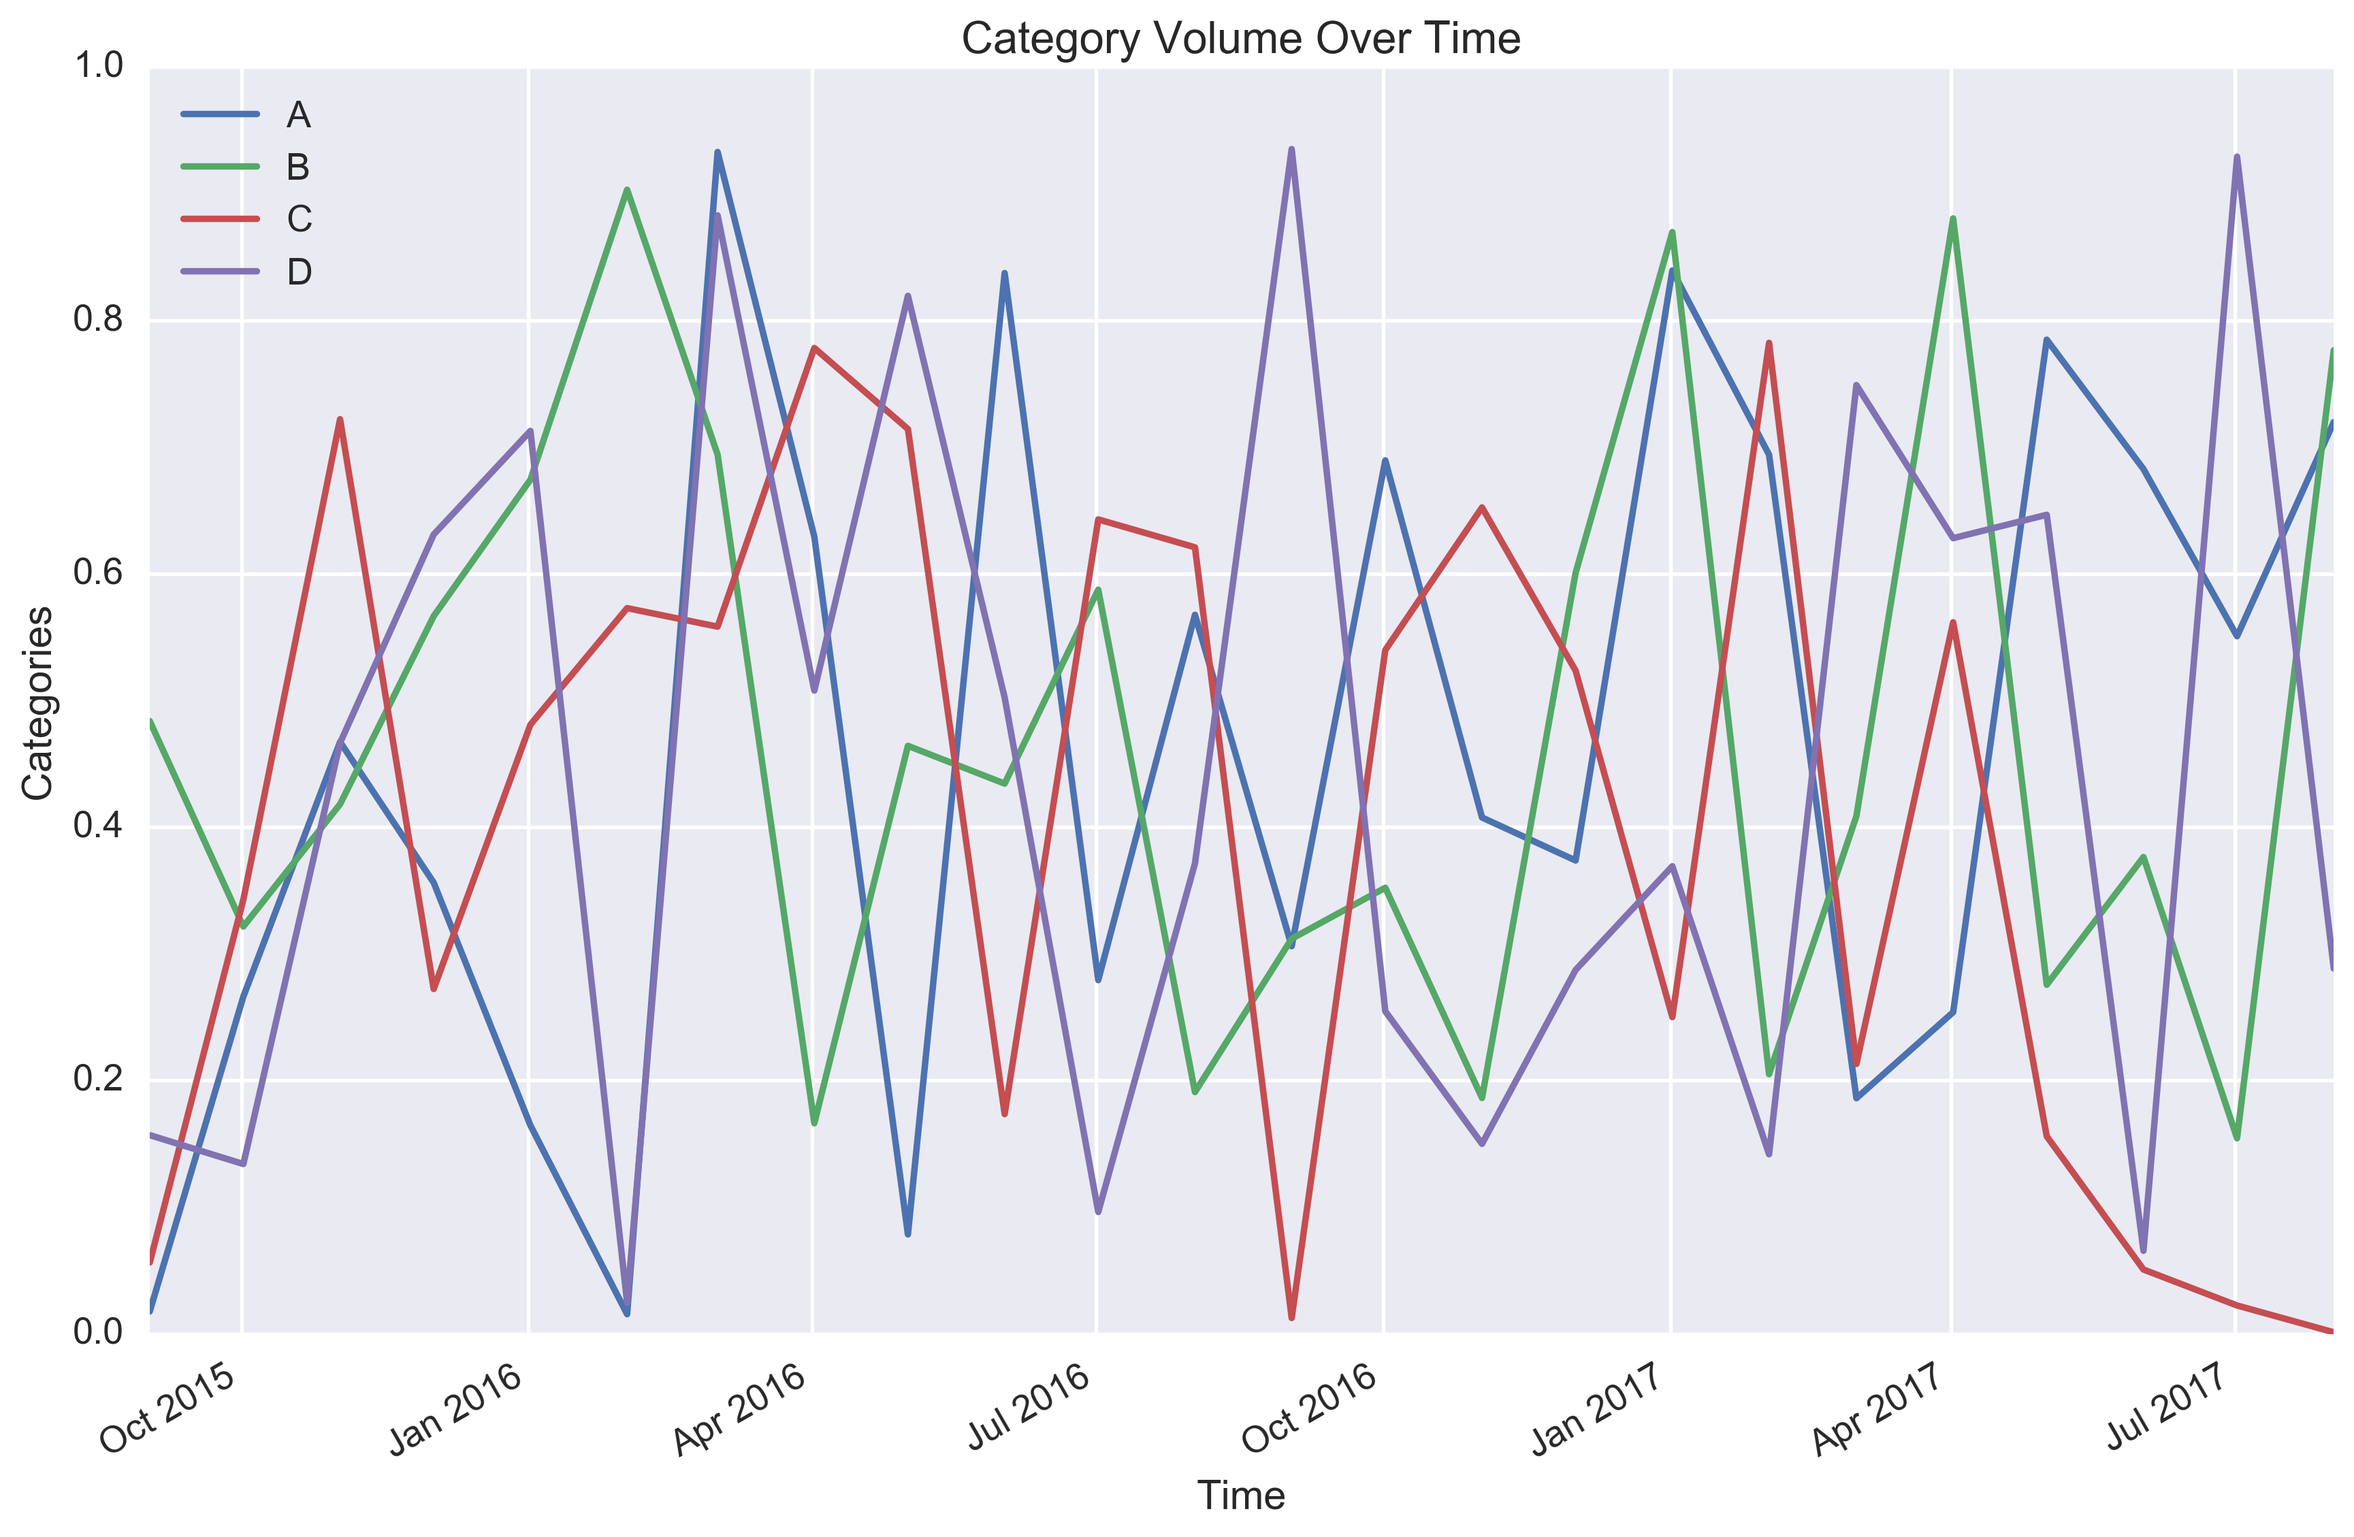
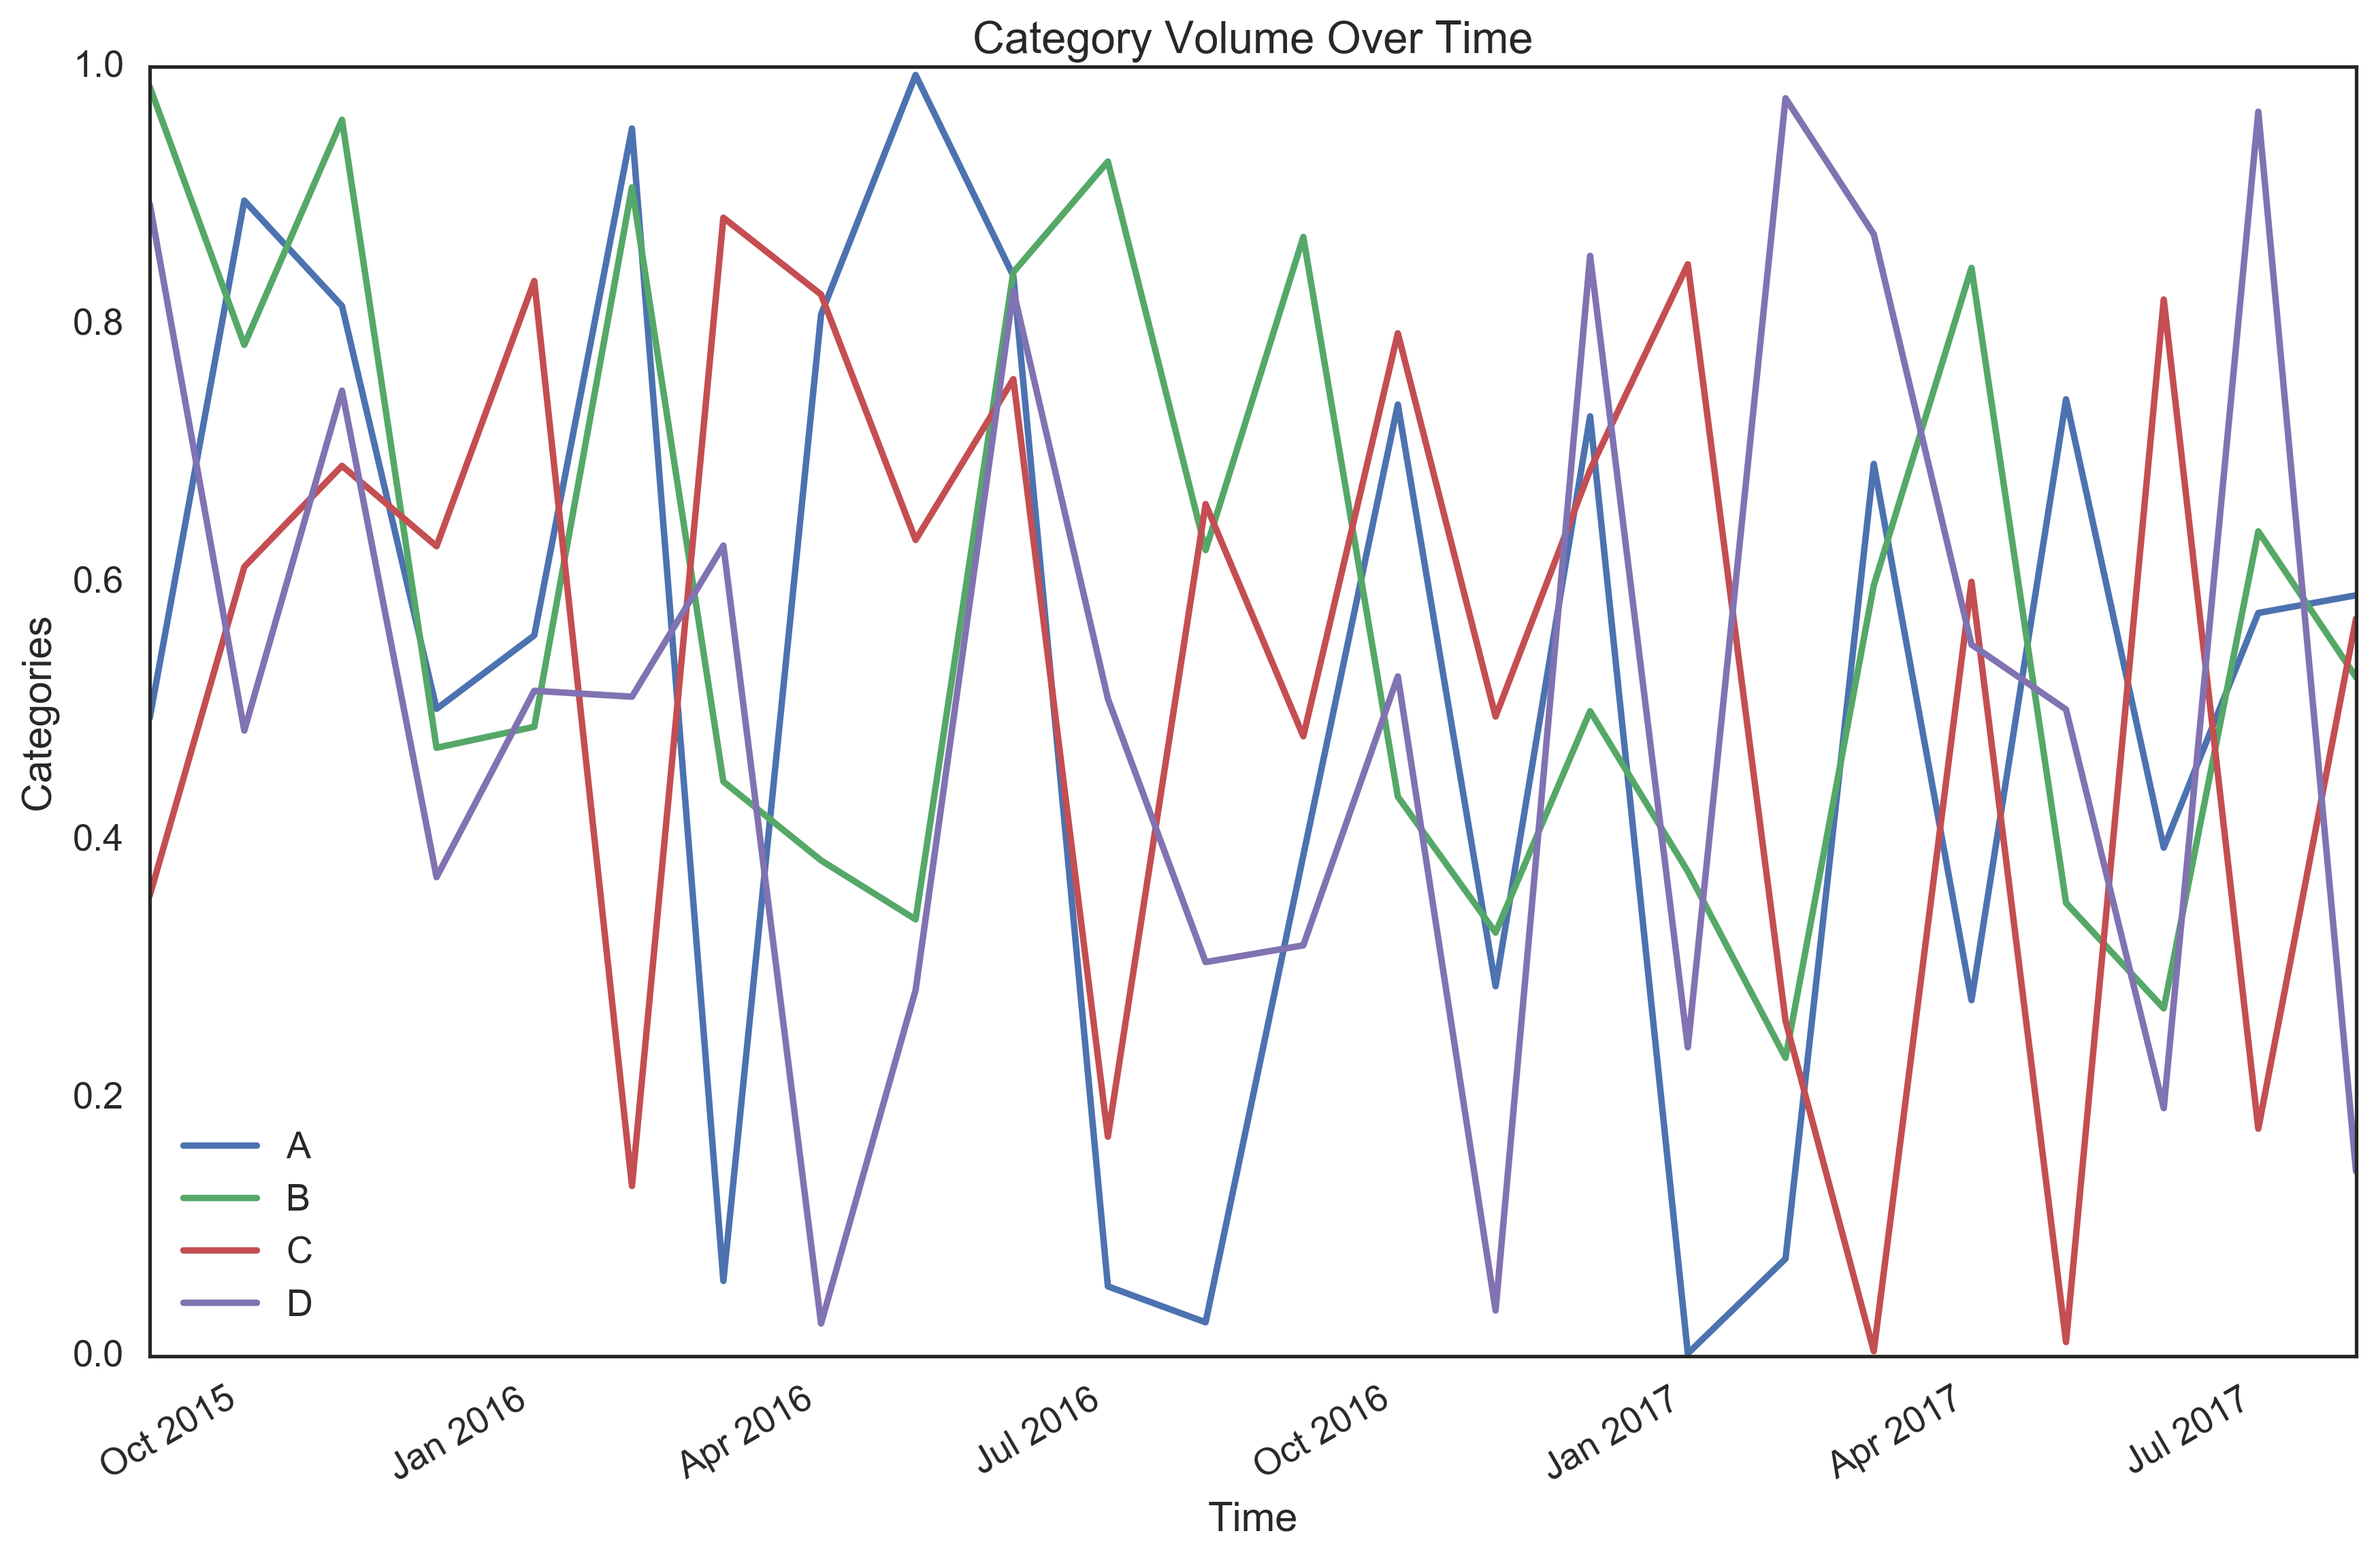
minor aesthetic changes

diff --git a/about/index.html b/about/index.html
@@ -37,7 +37,7 @@ title: About
 		My professional experience includes working as a data analyst specializing in business intelligence reporting for digital marketing campaigns. I have also worked remotely as a developer contributing to webapps and data science pipelines in Python. Currently I work full time in Amsterdam as a data analyst building data query tools and reporting pipelines within the scientific publishing industry.
 		<br>
 		<br>
-		I enjoy running, cycling, gardening and drinking beer, and consider myself an expert traveler. My personal accomplishments include biking the whole countries of Singapore, and Cambodia a 29'r mountian bike.
+		I enjoy running, cycling, gardening and drinking beer, and consider myself an expert traveler. My personal accomplishments include biking the whole countries of Singapore, and Cambodia on a 29'r mountian bike.
 		<br>
 		<br>
 		My passion lies in learning new technologies and continuing to challenge myself. I enjoy programming for analyzing data, developing web apps, building machine learning models and creating visualizations. On a daily basis I typically work in Python, SQL, KNIME, and Tableau. Being part of a fun team, and continuing to learn really motivate me. I highly value the flexibility to work remotely, and enjoy a healthy balance of hard work with intense fun.

diff --git a/_includes/foot_scripts.html b/_includes/foot_scripts.html
@@ -118,7 +118,7 @@
 
 			// add links to post headers
 			$(function() {
-			  return $("h2, h3, h4, h5, h6").each(function(i, el) {
+			  return $("h1, h2, h3, h4, h5, h6").each(function(i, el) {
 			    var $el, icon, id;
 			    $el = $(el);
 			    id = $el.attr('id');

diff --git a/assets/main.scss b/assets/main.scss
@@ -266,3 +266,11 @@ blockquote {
   letter-spacing: 0px;
   opacity: .87;
 }
+
+// SYNTAX HIGHLIGHTING
+pre,
+%vertical-rhythm
+  .highlight
+    .highlighter-rouge {
+      background: $background-color-grey !important;
+}

diff --git a/_posts/2017-06-25-Notes on plotting in Python.md b/_posts/2017-06-25-Notes on plotting in Python.md
@@ -1,6 +1,6 @@
 ---
-categories: [Data Visualization]
-tags: [Python, Pandas, Matplotlib, Jupyter]
+categories: [data visualization]
+tags: [python, pandas, matplotlib, jupyter]
 ---
 
 Helpful scripts and samples for plotting in Python
@@ -32,9 +32,9 @@ import seaborn
 Couple options for visualizing in a Jupyter Notebook. Either present static charts `inline`, embed them as interactive elements using `notebook` setting, or open the chart in a new windows from backend usiing `gtk`.  [source](http://ipython.readthedocs.io/en/stable/interactive/plotting.html)
 
 ```python
-%matplitlib inline
-%matplitlib notebook
-%matplitlib gtk
+%matplotlib inline
+%matplotlib notebook
+%matplotlib gtk
 ```
 
 ## Style
@@ -42,7 +42,7 @@ Couple options for visualizing in a Jupyter Notebook. Either present static char
 Call `plt.style.available` to show options, then set the style of choice.
 
 ```python
-plt.style.use('seaborn-talk')
+plt.style.use('seaborn-white')
 ```
 
 # Visualizations
@@ -72,7 +72,7 @@ ax.set(ylabel='Categories', xlabel='Time', title='Category Volume Over Time')
 fig.tight_layout(pad=2)
 fig.show()
 
-fig.savefig('category_volume_over_time.png', transparent=False, dpi=300, bbox_inches='tight')
+fig.savefig('category_volume_over_time.png', transparent=True, dpi=300, bbox_inches='tight')
 ```
 
 ![Category Volume Over Time]({{ site.baseurl }}/assets/img/posts/category_volume_over_time.png)  
@@ -117,7 +117,7 @@ for bar,(col,ix) in zip(ax.patches, pd.MultiIndex.from_product([df.columns,df.in
 fig.tight_layout(pad=2)
 fig.show()
 
-fig.savefig('category_volume_per_year_end.png', transparent=False, dpi=300, bbox_inches='tight')
+fig.savefig('category_volume_per_year_end.png', transparent=True, dpi=300, bbox_inches='tight')
 ```
 
 ![Category Volume per Year End]({{ site.baseurl }}/assets/img/posts/category_volume_per_year_end.png)  

diff --git a/_posts/2017-06-25-Calculations for Data Analysis.md b/_posts/2017-06-25-Calculations for Data Analysis.md
@@ -1,5 +1,5 @@
 ---
-categories: [Data Analysis]
+categories: [data analysis]
 tags: [calculations, equations]
 ---
 
